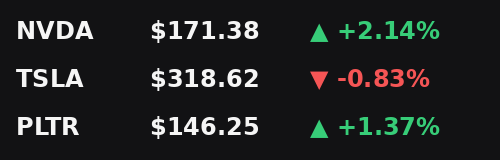
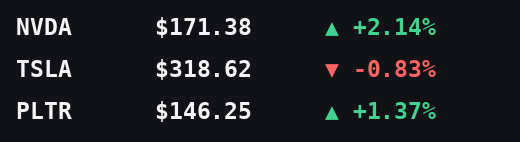
Add files via upload

diff --git a/generate_signature.py b/generate_signature.py
@@ -3,136 +3,173 @@ from __future__ import annotations
 import json
 import os
 import sys
-from datetime import datetime, timezone
 from pathlib import Path
 from urllib.request import Request, urlopen
 
 from PIL import Image, ImageDraw, ImageFont
 
-OUTPUT = Path("stock_signature.png")
+# =========================
+# EASY SETTINGS
+# =========================
+
 TICKERS_FILE = Path("tickers.txt")
+OUTPUT_FILE = Path("stock_signature.png")
 
-# Appearance
-BACKGROUND = (18, 18, 20, 255)
-TEXT = (245, 245, 245, 255)
-POSITIVE = (55, 205, 120, 255)
-NEGATIVE = (245, 85, 85, 255)
-FLAT = (185, 185, 185, 255)
+IMAGE_WIDTH = 520
+ROW_HEIGHT = 42
+TOP_BOTTOM_PADDING = 8
+LEFT_PADDING = 16
 
-ROW_HEIGHT = 48
-PADDING_X = 16
-PADDING_Y = 8
-FONT_SIZE = 24
-WIDTH = 500
+FONT_SIZE = 23
+BACKGROUND = (17, 18, 22, 255)
+TEXT_COLOR = (245, 245, 245, 255)
+GAIN_COLOR = (66, 211, 146, 255)
+LOSS_COLOR = (255, 100, 100, 255)
+FLAT_COLOR = (190, 190, 190, 255)
+
+TICKER_X = 16
+PRICE_X = 155
+CHANGE_X = 325
+
+# =========================
 
 
-def font(size: int) -> ImageFont.FreeTypeFont | ImageFont.ImageFont:
+def get_font(size: int) -> ImageFont.FreeTypeFont | ImageFont.ImageFont:
+    """Use a bold monospaced font so every row lines up cleanly."""
     candidates = [
-        "/usr/share/fonts/truetype/dejavu/DejaVuSans-Bold.ttf",
-        "/usr/share/fonts/truetype/liberation2/LiberationSans-Bold.ttf",
+        "/usr/share/fonts/truetype/dejavu/DejaVuSansMono-Bold.ttf",
+        "/usr/share/fonts/truetype/liberation2/LiberationMono-Bold.ttf",
     ]
-    for path in candidates:
-        if os.path.exists(path):
-            return ImageFont.truetype(path, size)
+    for candidate in candidates:
+        if os.path.exists(candidate):
+            return ImageFont.truetype(candidate, size)
     return ImageFont.load_default()
 
 
-def load_tickers() -> list[str]:
+def read_tickers() -> list[str]:
     if not TICKERS_FILE.exists():
-        raise FileNotFoundError("tickers.txt is missing")
-    tickers = []
-    for line in TICKERS_FILE.read_text(encoding="utf-8").splitlines():
-        symbol = line.strip().upper()
+        raise FileNotFoundError("tickers.txt was not found.")
+
+    tickers: list[str] = []
+    for raw_line in TICKERS_FILE.read_text(encoding="utf-8").splitlines():
+        symbol = raw_line.strip().upper()
         if symbol and not symbol.startswith("#"):
             tickers.append(symbol)
+
     if not tickers:
-        raise ValueError("Add at least one ticker to tickers.txt")
+        raise ValueError("tickers.txt must contain at least one ticker.")
+
     return tickers
 
 
-def fetch_quote(symbol: str) -> tuple[float, float]:
-    # Unofficial Yahoo Finance chart endpoint. No login or API key is required.
+def fetch_yahoo_quote(symbol: str) -> tuple[float, float]:
+    """
+    Fetch the latest regular-market price and daily percentage change.
+
+    This uses Yahoo Finance's public chart endpoint. It requires no login
+    or API key, but it is unofficial and may be delayed.
+    """
     url = (
         "https://query1.finance.yahoo.com/v8/finance/chart/"
         f"{symbol}?interval=1m&range=1d&includePrePost=false"
     )
+
     request = Request(
         url,
         headers={
-            "User-Agent": "Mozilla/5.0",
+            "User-Agent": "Mozilla/5.0 stock-signature/2.0",
             "Accept": "application/json",
         },
     )
+
     with urlopen(request, timeout=20) as response:
         payload = json.load(response)
 
-    result = payload["chart"]["result"][0]
-    meta = result["meta"]
+    chart = payload.get("chart", {})
+    if chart.get("error"):
+        raise RuntimeError(str(chart["error"]))
+
+    results = chart.get("result") or []
+    if not results:
+        raise RuntimeError("No quote result returned.")
+
+    result = results[0]
+    meta = result.get("meta", {})
 
     price = meta.get("regularMarketPrice")
     previous_close = meta.get("chartPreviousClose") or meta.get("previousClose")
 
     if price is None:
-        closes = result.get("indicators", {}).get("quote", [{}])[0].get("close", [])
-        valid = [value for value in closes if value is not None]
-        if valid:
-            price = valid[-1]
+        closes = (
+            result.get("indicators", {})
+            .get("quote", [{}])[0]
+            .get("close", [])
+        )
+        valid_closes = [value for value in closes if value is not None]
+        if valid_closes:
+            price = valid_closes[-1]
 
     if price is None or previous_close in (None, 0):
-        raise ValueError(f"Quote data unavailable for {symbol}")
+        raise RuntimeError("Price or previous close is unavailable.")
 
-    percent = ((float(price) - float(previous_close)) / float(previous_close)) * 100
-    return float(price), percent
+    price = float(price)
+    previous_close = float(previous_close)
+    percent_change = ((price - previous_close) / previous_close) * 100
+
+    return price, percent_change
 
 
-def draw_signature(rows: list[tuple[str, float | None, float | None]]) -> None:
-    height = PADDING_Y * 2 + ROW_HEIGHT * len(rows)
-    image = Image.new("RGBA", (WIDTH, height), BACKGROUND)
+def render(rows: list[tuple[str, float | None, float | None]]) -> None:
+    font = get_font(FONT_SIZE)
+
+    image_height = TOP_BOTTOM_PADDING * 2 + ROW_HEIGHT * len(rows)
+    image = Image.new("RGBA", (IMAGE_WIDTH, image_height), BACKGROUND)
     draw = ImageDraw.Draw(image)
-    main_font = font(FONT_SIZE)
 
-    ticker_x = PADDING_X
-    price_x = 150
-    change_x = 310
+    for index, (symbol, price, change) in enumerate(rows):
+        y = TOP_BOTTOM_PADDING + index * ROW_HEIGHT + 5
 
-    for index, (symbol, price, percent) in enumerate(rows):
-        y = PADDING_Y + index * ROW_HEIGHT
-        text_y = y + 8
+        draw.text((TICKER_X, y), symbol, font=font, fill=TEXT_COLOR)
 
-        draw.text((ticker_x, text_y), symbol, font=main_font, fill=TEXT)
-
-        if price is None or percent is None:
-            draw.text((price_x, text_y), "Unavailable", font=main_font, fill=FLAT)
+        if price is None or change is None:
+            draw.text((PRICE_X, y), "Unavailable", font=font, fill=FLAT_COLOR)
             continue
 
-        arrow = "▲" if percent > 0 else "▼" if percent < 0 else "•"
-        change_color = POSITIVE if percent > 0 else NEGATIVE if percent < 0 else FLAT
+        if change > 0:
+            arrow = "▲"
+            change_color = GAIN_COLOR
+        elif change < 0:
+            arrow = "▼"
+            change_color = LOSS_COLOR
+        else:
+            arrow = "•"
+            change_color = FLAT_COLOR
 
-        draw.text((price_x, text_y), f"${price:,.2f}", font=main_font, fill=TEXT)
+        draw.text((PRICE_X, y), f"${price:,.2f}", font=font, fill=TEXT_COLOR)
         draw.text(
-            (change_x, text_y),
-            f"{arrow} {percent:+.2f}%",
-            font=main_font,
+            (CHANGE_X, y),
+            f"{arrow} {change:+.2f}%",
+            font=font,
             fill=change_color,
         )
 
-    image.save(OUTPUT, optimize=True)
+    image.save(OUTPUT_FILE, format="PNG", optimize=True)
 
 
 def main() -> int:
-    tickers = load_tickers()
-    rows = []
+    rows: list[tuple[str, float | None, float | None]] = []
 
-    for symbol in tickers:
+    for symbol in read_tickers():
         try:
-            price, percent = fetch_quote(symbol)
-            rows.append((symbol, price, percent))
+            price, change = fetch_yahoo_quote(symbol)
+            rows.append((symbol, price, change))
+            print(f"{symbol}: ${price:,.2f} ({change:+.2f}%)")
         except Exception as exc:
             print(f"{symbol}: {exc}", file=sys.stderr)
             rows.append((symbol, None, None))
 
-    draw_signature(rows)
-    print(f"Updated {OUTPUT} at {datetime.now(timezone.utc).isoformat()}")
+    render(rows)
+    print(f"Created {OUTPUT_FILE}")
     return 0
 
 